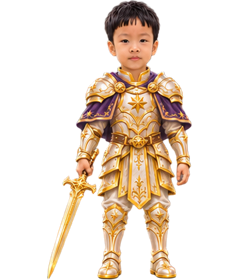
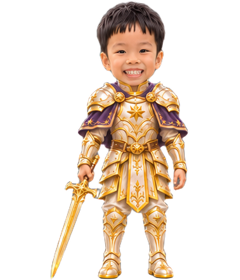
SKSP Phiêu Lưu 261103.1534: Gôm luôn cười, mắt mở hơn, đầu dễ nhận diện; cận chiến hút máu và giảm phóng kiếm

Changed region(s): [[0.175, 0.0, 0.8167, 1.0]]

diff --git a/index.html b/index.html
@@ -405,7 +405,7 @@
   let META = null, ready = false;
   function loadImg(src) { return new Promise((res, rej) => { const i = new Image(); i.onload = () => res(i); i.onerror = rej; i.src = src; }); }
   // ---------------------------------------------------------------- version: the site build stamps BUILD_VER and writes version.json beside the page
-  const BUILD_VER = "261103.1137", isBuilt = !BUILD_VER.startsWith("__");
+  const BUILD_VER = "261103.1534", isBuilt = !BUILD_VER.startsWith("__");
   async function latestVer() {
     try { return (await (await fetch("version.json?x=" + Date.now(), { cache: "no-store" })).json()).v; } catch (e) { return null; }
   }
@@ -537,7 +537,7 @@
         const M = await (await fetch("gom-assets/"+of+"/atlas.json",{cache:"no-cache"})).json();
         if (M.version !== 1 || !Array.isArray(M.sheets) || !M.sheets.length || M.sheets.some(u=>typeof u!=="string" || !/^[a-zA-Z0-9_-]+\.(webp|png)$/.test(u)) || !M.frames || !M.frames.stand) throw Error("Gôm: atlas không hợp lệ");
         for(const [pose,f] of Object.entries(M.frames)) if (!/^[a-zA-Z0-9_]+$/.test(pose) || !Array.isArray(f) || f.length!==8 || !f.every(Number.isFinite) || !Number.isInteger(f[0]) || !M.sheets[f[0]] || f[1]<0 || f[2]<0 || f[3]<=0 || f[4]<=0 || f[5]<=0) throw Error("Gôm: frame không hợp lệ");
-        const required=["stand","faint","cheer","ult",...['wr','wl','cr','cl'].flatMap(p=>[0,1,2].map(i=>p+i)),...['wd','wu','cd','cu'].flatMap(p=>[0,1,2,3].map(i=>p+i)),...Array.from({length:9},(_,i)=>['atk'+i+'r','atk'+i+'l']).flat(),...(of==='base'?['sword_fly','slash0','slash1','slash2','ult_swords','ult_land']:[])];
+        const required=["stand","faint","cheer","ult",...['wr','wl','cr','cl','wdr','wdl'].flatMap(p=>[0,1,2].map(i=>p+i)),...['wd','wu','cd','cu'].flatMap(p=>[0,1,2,3].map(i=>p+i)),...Array.from({length:9},(_,i)=>['atk'+i+'r','atk'+i+'l']).flat(),...(of==='base'?['sword_fly','slash0','slash1','slash2','ult_swords','ult_land']:[])];
         if(required.some(p=>!M.frames[p])) throw Error("Gôm: bộ hình chưa đủ");
         const group="b."+of, base=AT.sheets.length;
         const sheets=M.sheets.map((url,i)=>({i:base+i,url:"gom-assets/"+of+"/"+url+"?v="+encodeURIComponent(M.hash||BUILD_VER),g:group,img:null,p:null,used:0,fail:-99,w:0,h:0,keep:false,need:false}));
@@ -1617,7 +1617,7 @@
   function heroDown(why) {
     // The girls only rest briefly. Fainting and rescue belong to NPCs.
     if (P.tiredT > 0) return;
-    P.gomPending = null; P.dead = false; P.tiredT = 1.4; P.inv = Math.max(P.inv, 1.4); P.hurtT = 0;
+    resetGomCombat();P.gomPending = null; P.dead = false; P.tiredT = 1.4; P.inv = Math.max(P.inv, 1.4); P.hurtT = 0;
     P.vx = P.vy = 0; P.moving = false; G.hearts = 0; renderHearts();
     const safe = lavaSafeSpot(P.x, P.y) || hzSafeSpot(P.x, P.y);
     if (safe) { P.x = safe[0]; P.y = safe[1]; }
@@ -1628,6 +1628,7 @@
   const rescuing = () => !!(Q && NET.role && !Q.dead && d2(Q.x, Q.y, P.x, P.y) < RESCUE_R * RESCUE_R);
   // get back up on the spot with full hearts, and shoo the monsters away
   function reviveHero() {
+    resetGomCombat();P.gomPending=null;
     for (const e of PETE) { if (!isCls(e)) e.faintT = 0; else if (e.faintT > 0 && !escOf(e)) allyRevive(e); }   // (a friend fainted in her escort waits for a girl beside her)
     P.dead = false; P.tiredT = 0; P.hurtT = 0; P.inv = 2.5; G.hearts = maxHearts(); renderHearts(); SFX.heal();
     burst(P.x, P.y - 110, 30, ["#fff4c2", "#ffd34d", ...HD().cols], 380, 0.8);
@@ -1646,6 +1647,7 @@
     for (const o of G.cps) if (d2(o.x, o.y, x, y) < 700 * 700) o.end = Math.min(o.end, o.t);   // (the monsters' warnings near her go too)
   }
   function gomStep(dt) {
+    P.gomThrowCd=Math.max(0,(P.gomThrowCd||0)-dt);
     if (P.dead || P.tiredT > 0 || G.ult || P.winT) { P.gomPending=null; return; }
     const pending=P.gomPending; if(pending && (pending.t-=dt)<=0) { P.gomPending=null; pending.strike(); }
   }
@@ -1768,31 +1770,65 @@
     if (gift) fireBolt(gift, Math.random() < 0.5 ? -0.75 : 0.75, 1, S);
     play("zap");
   }
+  let gomSequence = 0;
+  const gomWaiting = new Set(), gomReceived = new Map();
+  function resetGomCombat() {
+    P.gomThrowCd=0; P.gomHealTimes=[]; gomWaiting.clear();
+  }
+  function gomHeal() {
+    if(hero!=="b" || P.dead || P.tiredT>0 || G.hearts<=0) return;
+    const now=G.t || 0;
+    P.gomHealTimes=(P.gomHealTimes||[]).filter(t=>now-t<1);
+    if(P.gomHealTimes.length>=5 || G.hearts>=8) return;
+    P.gomHealTimes.push(now); G.hearts=Math.min(8,Math.round((G.hearts+0.1)*1e10)/1e10); renderHearts();
+  }
+  function gomMeleeHit(m, strike, hit) {
+    const hp=m.hp, queued=NET.hq.length; hit();
+    if(NET.role==="guest") {
+      if(NET.hq.length>queued) { NET.hq[NET.hq.length-1][6]=strike.id; gomWaiting.add(strike.id); if(gomWaiting.size>128)gomWaiting.delete(gomWaiting.values().next().value); }
+    } else if(m.hp<hp && !strike.healed) { strike.healed=true; gomHeal(); }
+  }
+  function gomReceiveHit(h, hit) {
+    const token=h[6];
+    if(!Number.isSafeInteger(token) || token<=0 || Q?.hero!=="b") return hit();
+    let record=gomReceived.get(token);
+    if(!record) { record={targets:new Set(),healed:false}; gomReceived.set(token,record); if(gomReceived.size>512)gomReceived.delete(gomReceived.keys().next().value); }
+    const id=Number(h[0]); if(record.targets.has(id))return; record.targets.add(id);
+    const m=id===-1?G.boss:G.mons.find(m=>m.id===id), hp=m?.hp;
+    if(!m?.alive || Q.dead || Q.tiredT>0) return;
+    if(id!==-1 && shieldBlocks(m,Math.cos(Math.atan2(m.y-Q.y,m.x-Q.x)),Math.sin(Math.atan2(m.y-Q.y,m.x-Q.x))))return;
+    hit();
+    if(m.hp<hp && !record.healed) { record.healed=true; netEmit("gomheal",{to:NET.partner,id:token}); }
+  }
   // Each strike applies once to every enemy in its arc. Finishers take longer;
   // their damage is scaled by that same duration to preserve sustained DPS.
   function gomFire() {
+    if(P.dead || P.tiredT>0 || G.ult || P.winT)return;
     const S = heroStats("b",P.lv,P.elem), targets = nearestFoes(P.x,P.y,S.range,64), t = targets[0];
     if (!t) { P.shootCd = 0.08; return; }
     const a = Math.atan2(aimY(t)-P.y,t.x-P.x), near = Math.hypot(t.x-P.x,t.y-P.y) < 250 + (t === G.boss ? bossR(t) : 0);
     if (!P.moving) setFace(P,Math.cos(a),Math.sin(a));
+    if(!near && P.gomThrowCd>0)return;
     P.gomStrike = ((P.gomStrike ?? -1) + 1) % 9;
     const step = P.gomStrike % 3, chain = Math.floor(P.gomStrike / 3), pace = [0.85,0.95,1.2][step];
     P.shootCd = S.cd * pace; P.castT = P.shootCd; P.gomDuration = P.shootCd;
     if (near) {
+      const receipt={id:++gomSequence,healed:false};
       const strike = () => {
       const widths = [[1.1,1.4,0.8],[0.9,1.3,Math.PI],[0.55,1.7,1.2]];
       for (const m of targets) {
         if (!m.alive || m === G.boss && !bossOpen(m)) continue;
         const d = Math.hypot(m.x-P.x,m.y-P.y), ma = Math.atan2(aimY(m)-P.y,m.x-P.x);
         if (d > 270 + (m === G.boss ? bossR(m) : m.r || 0) || Math.abs(Math.atan2(Math.sin(ma-a),Math.cos(ma-a))) > widths[chain][step]) continue;
-        if (m === G.boss) hitBoss(P.elem,P.x,P.y,false,1.3);
-        else if (!shieldBlocks(m,Math.cos(a),Math.sin(a))) hitMon(m,S.dmg*pace,P.elem,P.x,P.y,S.kb);
+        if (m === G.boss) gomMeleeHit(m,receipt,()=>hitBoss(P.elem,P.x,P.y,false,1.3));
+        else if (!shieldBlocks(m,Math.cos(a),Math.sin(a))) gomMeleeHit(m,receipt,()=>hitMon(m,S.dmg*pace,P.elem,P.x,P.y,S.kb));
       }
       G.parts.push({type:"fx",name:"b.base.slash"+chain,x:P.x+Math.cos(a)*120,y:P.y-BOLT_Z+Math.sin(a)*120,sc:1,rot:a,life:0.24,max:0.24});
       netEmit("gomslash",{x:P.x,y:P.y,a,chain});
       };
       if (step === 2) P.gomPending = { t:Math.min(0.12,S.cd*0.5), strike }; else strike();
     } else {
+      P.gomThrowCd=1; P.shootCd=0;
       G.shots.push({x:P.x,y:P.y,vx:Math.cos(a)*S.speed,vy:Math.sin(a)*S.speed,life:S.range/S.speed,r:S.r,dmg:S.dmg*pace,bossDmg:1.3,pierce:true,hit:new Set(),elem:P.elem,hk:"b",sc:1,kb:S.kb});
       netShot(P.x,P.y,a,1);
     }
@@ -3004,7 +3040,7 @@
   }
   function pickDrop(d) {
     if (d.type === "heart") {
-      if (G.hearts < maxHearts()) { G.hearts++; renderHearts(); floatText(d.x, d.y - 60, "+1 tim"); }
+      if (G.hearts < maxHearts()) { G.hearts = Math.min(maxHearts(), G.hearts + 1); renderHearts(); floatText(d.x, d.y - 60, "+1 tim"); }
       else addEnergy(10, d.x, d.y - 60);
       SFX.heal(); burst(d.x, d.y - 40, 14, ["#ff6f8f", "#fff"], 260, 0.5);
     } else if (d.type === "energy") {
@@ -8264,6 +8300,7 @@
     // Repeated cast silhouettes have no stepping legs. Preserve the walk cycle
     // while firing on the move; standing still keeps the raised-wand pose.
     const face = o.face | 0, side = face >= 1 && face <= 3, cast = o.castT > 0 && (c === "b" ? (!o.moving || o.castT > (P.gomDuration || 0.2)*0.45) : (!o.moving || o.aim)), mv = !!o.moving, dist = o.dist || 0;
+    if(c==='b'&&face===1&&!cast){const pose='wd'+(o.flip?'l':'r')+(mv?[0,1,2,1][Math.floor(dist/SIDE_CYCLE*4)%4]:1);if(FR[c+'.'+of+'.'+pose])return pick(pose);}
     if (c === "b" && cast && side) return pick("atk" + (o.gomStrike ?? P.gomStrike ?? 0) + (o.flip ? "l" : "r"));
     if (side) {
       const step = mv ? SIDE_STEPS[Math.floor(dist / SIDE_CYCLE * 4) % 4] : 1;   // standing: the feet-together frame
@@ -9959,7 +9996,14 @@
 
 
   // ---------------------------------------------------------------- HUD
-  function renderHearts() { $("hearts").innerHTML = Array.from({ length: maxHearts() }, (_, i) => (i < G.hearts ? '<img src="assets/ui_heart.webp" alt="">' : '<img class="lost" src="assets/ui_heart_empty.webp" alt="">')).join(""); }
+  function renderHearts() {
+    $("hearts").innerHTML=Array.from({length:maxHearts()},(_,i)=>{
+      const fill=clamp(G.hearts-i,0,1);
+      if(fill===1)return '<img src="assets/ui_heart.webp" alt="">';
+      if(fill===0)return '<img class="lost" src="assets/ui_heart_empty.webp" alt="">';
+      return '<span style="position:relative;display:inline-block;width:1.35em;height:1.35em"><img class="lost" src="assets/ui_heart_empty.webp" alt=""><img src="assets/ui_heart.webp" alt="" style="position:absolute;inset:0;clip-path:inset('+Math.round((1-fill)*100)+'% 0 0 0)"></span>';
+    }).join("");
+  }
   function updateHud() {
     $("efill").style.width = G.energy + "%"; $("ebar").classList.toggle("full", G.energy >= 100);
     $("stars").textContent = G.stars;
@@ -10013,15 +10057,32 @@
   $("againBtn").addEventListener("click", () => { $("winScreen").hidden = true; startGame(0); if (NET.role === "host") sendStart(); });
 
   // the home screen: pick a sister, then play alone or together
+  // UI portraits are separate from neutral gameplay frames.
+  const GOM_SELECTION = new Map();
+  function gomSelection(outfit = 'base', ready) {
+    let entry = GOM_SELECTION.get(outfit);
+    if (!entry) {
+      entry = { frame: null, promise: null }; GOM_SELECTION.set(outfit, entry);
+      entry.promise = loadImg('gom-assets/' + outfit + '/selection.webp').then(img => {
+        const stand = FR['b.base.stand'];
+        entry.frame = { img, sx: 0, sy: 0, w: img.width, h: img.height,
+          s: stand ? stand.h * stand.s / img.height : 247.5 / img.height,
+          ax: img.width / 2, ay: img.height };
+        if (ready) ready();
+        return entry.frame;
+      }).catch(() => null);
+    }
+    return entry;
+  }
   function renderHeroes() {
     const box = $("heroes"); box.innerHTML = "";
-    const stand = (k) => FR[heroFrame4({ char: k, outfit: "base", face: 0, moving: false })], CW = 156, CHt = 314;
+    const stand = (k) => (k === "b" ? gomSelection("base", renderHeroes).frame : null) || FR[heroFrame4({ char: k, outfit: "base", face: 0, moving: false })], CW = 156, CHt = 314;
     // one scale for both cards, the tallest one fitted to the card: Matcha stands taller than Mochi, as in the game
     const fit = Math.min(...Object.keys(HEROES).filter(k=>stand(k)).map((k) => (CHt - 6) / (stand(k).h * stand(k).s)));
     for (const [k, h] of Object.entries(HEROES)) {
       const b = document.createElement("button"); b.className = "hero"; b.setAttribute("aria-pressed", k === hero);
       const f = stand(k), c = document.createElement("canvas"); c.width = CW; c.height = CHt;
-      const k2 = f ? f.s * fit : 1, g = c.getContext("2d");
+      const k2 = f ? (k === "b" ? Math.min(f.s * fit, (CW - 4) / f.w) : f.s * fit) : 1, g = c.getContext("2d");
       if (f) g.drawImage(f.img, f.sx, f.sy, f.w, f.h, c.width / 2 - f.ax * k2, c.height - f.ay * k2, f.w * k2, f.h * k2);
       b.append(c, h.name);
       if (k === "b" && (!f || !frameReady(f))) { b.disabled = true; b.append(" — chưa tải được hình"); }
@@ -10056,7 +10117,7 @@
     const lvl = i; if (at) i = Math.min(lvl + 1, LEVELS.length - 1);
     initAudio();
     // (a start past Màn 2 brings what the maps before it gave: LATER_STARS stars a map, as a girl who played them would have)
-    P.gomStrike = -1; P.gomPending = null;
+    resetGomCombat();gomReceived.clear();P.gomStrike = -1; P.gomPending = null;
     Object.assign(G, { stars: !at && i >= 2 ? LATER_STARS * i : 0, hearts: maxHearts(), energy: 0, kills: 0, won: false, fade: 1, fadeDir: -1 });
     tallyReset();
     P.elem = null; P.elemT = 0; P.lv = 1 + i * 4; P.xp = 0; updateElemHud(); updateXpHud();
@@ -10316,6 +10377,13 @@
     if (!SH.open) return;
     SH.prev = SH.view; SH.view = (SH.view + d + 4) % 4; SH.turnT = 1; play("swoosh");
   }
+  function drawSelectionHeroAt(g, char, outfit, o, x, gy, th, tint) {
+    if (char === 'b' && !o.face) {
+      const f = gomSelection(outfit, () => { if (SH.open) shopRefresh(); }).frame;
+      if (f) { const k = th / f.h; g.drawImage(f.img, x - f.ax * k, gy - th, f.w * k, th); return true; }
+    }
+    return drawHeroAt(g, char, outfit, o, x, gy, th, tint);
+  }
   function shopRefresh() {
     const box = $("shopCards"), top = box.scrollTop; box.innerHTML = "";   // (the list scrolls: keep where it was)
     SH.cards.forEach((c, i) => {
@@ -10323,7 +10391,7 @@
       const b = document.createElement("button"); b.className = "scard" + (worn ? " worn" : ""); b.setAttribute("aria-pressed", i === SH.sel ? "true" : "false"); b.setAttribute("aria-label", c.name);
       const cv2 = document.createElement("canvas"); cv2.width = 190; cv2.height = 230;
       const g2 = cv2.getContext("2d"), oc = cardOutfit(c);
-      if (!drawHeroAt(g2, hero, oc, { face: 0 }, 95, 222, 210, true)) badgeQ(g2, 150, 36, 22);
+      if (!drawSelectionHeroAt(g2, hero, oc, { face: 0 }, 95, 222, 210, true)) badgeQ(g2, 150, 36, 22);
       const pr = document.createElement("div"); pr.className = "scprice" + (owned || can ? "" : " no");
       pr.innerHTML = owned ? '<svg viewBox="0 0 24 24"><path d="M5 12.5l4.5 4.5L19 7.5" fill="none" stroke="currentColor" stroke-width="3.4" stroke-linecap="round" stroke-linejoin="round"/></svg>' : `<img src="assets/ui_star.webp" alt=""><span>${c.price}</span>`;
       b.append(cv2, pr);
@@ -10404,7 +10472,7 @@
     if (th.embers) shopEmbers(g, W, H, SH.t);
     const vw = SHOP_VIEWS[view], bob = Math.sin(SH.t * 2.2) * ht * 0.006;
     g.save(); g.translate(cx, 0); g.scale(Math.max(0.03, sx), 1);
-    const have = drawHeroAt(g, hero, oc, { face: vw.face, flip: vw.flip }, 0, gy + bob, ht, true);
+    const have = drawSelectionHeroAt(g, hero, oc, { face: vw.face, flip: vw.flip }, 0, gy + bob, ht, true);
     g.restore();
     if (!have) badgeQ(g, cx + ht * 0.2, gy - ht * 0.93, ht * 0.07);
     if (SH.sparkT > 0) {   // sparkles after buying or wearing
@@ -13156,7 +13224,7 @@
       }
       renderCoop();
     }, () => { if (NET.state === "ok") { NET.state = "none"; NET.room = null; renderCoop(); } });
-    for (const t of ["start", "hits", "ult", "shoo", "portal", "hurt", "pick", "gain", "shots", "xp", "pet", "combo", "outfit", "shop", "ship", "ally", "travel", "dialogue", "gomslash"]) room.on(t, onNet, () => {});
+    for (const t of ["start", "hits", "ult", "shoo", "portal", "hurt", "pick", "gain", "shots", "xp", "pet", "combo", "outfit", "shop", "ship", "ally", "travel", "dialogue", "gomslash", "gomheal"]) room.on(t, onNet, () => {});
     renderCoop();
   }
 
@@ -13319,7 +13387,7 @@
     if (msg.topic === "ally") {   // her page about this page's friends / girl: a hit the host saw, Kairon's aura (a heart, the friends healed / up)
       if (d.to !== NET.me || G.mode !== "play") return;
       if (d.t === "hurt") { if (NET.role !== "guest") return; const p = PETE[clamp(Math.floor(num(d.i)), 0, 7)]; if (p && isCls(p)) allyDamage(p, clamp(Math.round(num(d.n)) || 1, 1, 4), num(d.fx), num(d.fy), typeof d.bf === "boolean" ? d.bf : bossFight()); }
-      else if (d.t === "heal") { if (!P.dead && G.hearts < maxHearts()) { G.hearts++; renderHearts(); SFX.heal(); if (G.parts.length < 420) burst(P.x, P.y - 140, 14, ["#fff4c2", "#ff9ab8", "#ffd34d"], 260, 0.6); } }
+      else if (d.t === "heal") { if (!P.dead && G.hearts < maxHearts()) { G.hearts = Math.min(maxHearts(), G.hearts + 1); renderHearts(); SFX.heal(); if (G.parts.length < 420) burst(P.x, P.y - 140, 14, ["#fff4c2", "#ff9ab8", "#ffd34d"], 260, 0.6); } }
       else if (d.t === "aura") auraOn(num(d.x), num(d.y));
       return;
     }
@@ -13353,15 +13421,18 @@
       }
       return;
     }
+    if(msg.topic==="gomheal") { if(NET.role==="guest" && d.to===NET.me && G.mode==="play" && gomWaiting.delete(d.id))gomHeal(); return; }
     if (NET.role === "host") {
       if (msg.topic === "hits") {
         for (const h of Array.isArray(d.h) ? d.h.slice(0, 120) : []) {
           if (!Array.isArray(h)) continue;
+          gomReceiveHit(h,()=>{
           const el = ELS[num(h[1])] || null, id = num(h[0]);
           const frost = num(h[5]) === 1 && !!Q && frostOn(Q.outfit);   // (her ice-queen bolt: only as her page's outfit says)
-          if (id === -1) { if (G.boss && G.boss.alive) { damageBoss(Q && Q.hero === "b" ? clamp(num(h[2]),0,40) : 1, G.boss.x, G.boss.y - 220); applyElem(G.boss, el, "q"); if (frost) applyFrost(G.boss); } continue; }
+          if (id === -1) { if (G.boss && G.boss.alive) { damageBoss(Q && Q.hero === "b" ? clamp(num(h[2]),0,40) : 1, G.boss.x, G.boss.y - 220); applyElem(G.boss, el, "q"); if (frost) applyFrost(G.boss); } return; }
           const m = G.mons.find((m) => m.id === id && m.alive);
           if (m) { damageMon(m, clamp(num(h[2]) || 1, 0.1, 400), Q ? Q.x : m.x, Q ? Q.y : m.y, false, "q", clamp(num(h[3]) || 60, 0, 600)); applyElem(m, el, "q"); if (num(h[4]) > 0 && m.alive) m.slow = Math.max(m.slow || 0, clamp(num(h[4]) / 10, 0, 5)); if (frost) applyFrost(m); }
+          });
         }
       } else if (msg.topic === "ult") {
         ultBlast(num(d.cx), num(d.cy), clamp(num(d.hw), 0, 2200), clamp(num(d.hh), 0, 1400), "q"); SFX.boom(); ultShake();   // (her show is played from her clock: UFX.q)
